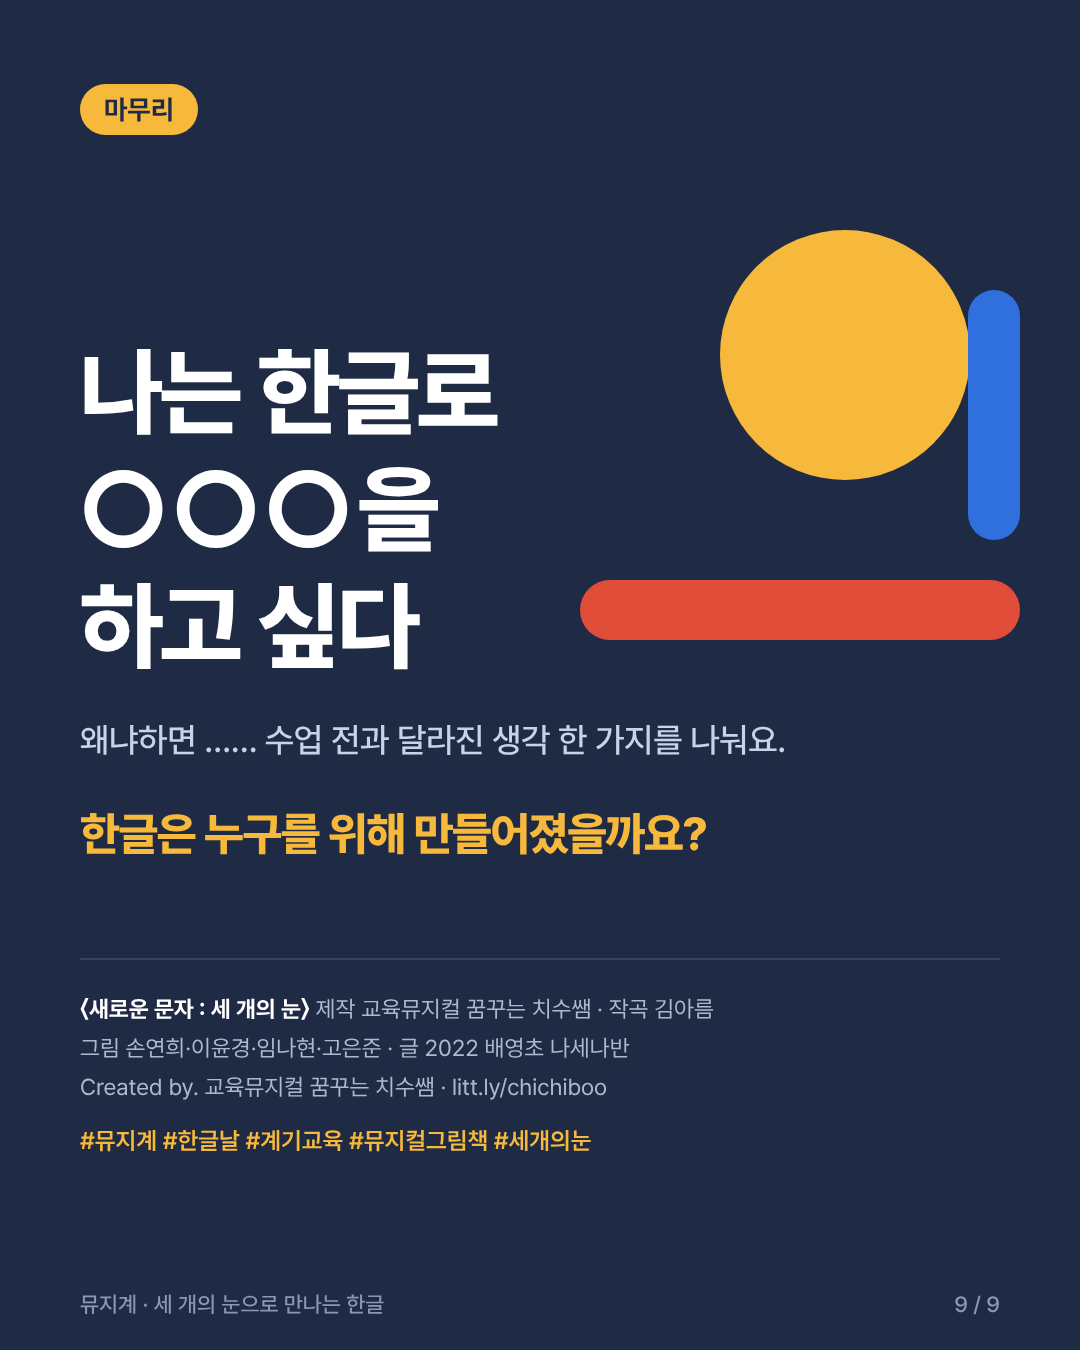
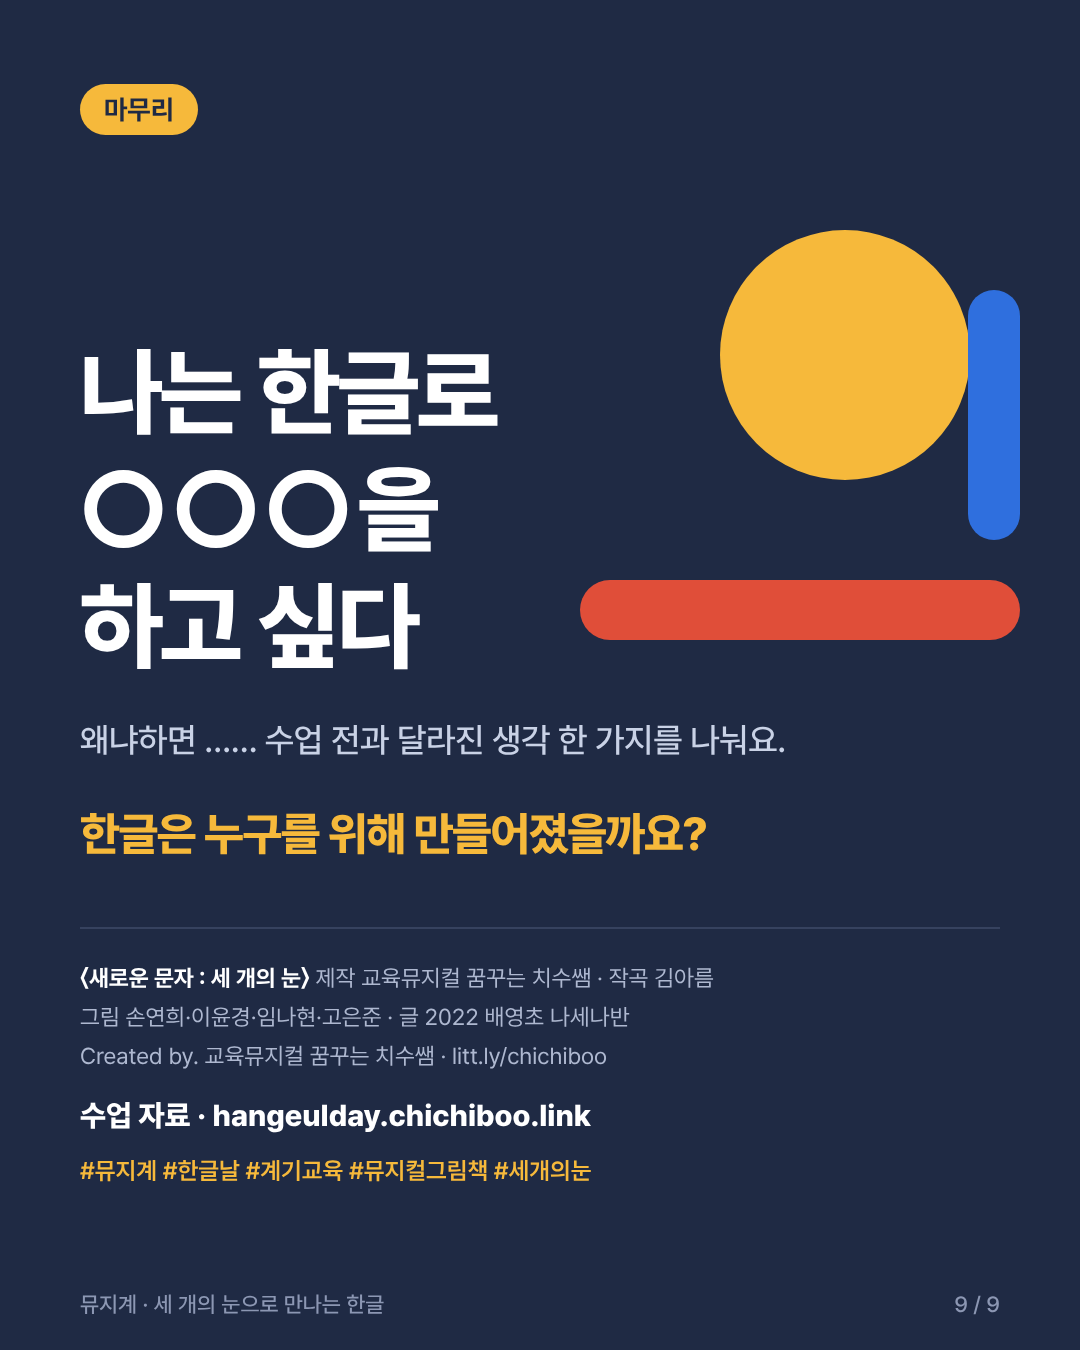
Card news: add the site URL hangeulday.chichiboo.link
Show the custom-domain URL on cards 8 and 9 and in the post caption.

Claude-Session: https://claude.ai/code/session_01Pmh6PhJww4VXSAKX9u9GHE

Changed region(s): [[0.0611, 0.7156, 0.6722, 0.8711]]

diff --git a/cardnews/index.html b/cardnews/index.html
@@ -117,7 +117,7 @@ p{margin:0}
 .stack img:nth-child(1){left:0;top:0;transform:rotate(-4deg)}.stack img:nth-child(2){left:40px;top:40px;transform:rotate(1deg)}.stack img:nth-child(3){left:80px;top:70px;transform:rotate(4deg)}
 .plan{display:flex;flex-direction:column;gap:10px;margin-top:10px}
 .web{margin-top:22px;background:var(--navy);color:#fff;border-radius:28px;padding:30px 34px}
-.web strong{display:block;font-size:32px;font-weight:800;margin-bottom:16px}
+.web strong{display:block;font-size:32px;font-weight:800;margin-bottom:16px}.web em{font-style:normal;color:var(--yellow);margin-left:10px}
 .web div{display:flex;flex-wrap:wrap;gap:12px}.web span{font-size:25px;font-weight:600;background:#2E3A58;border-radius:999px;padding:8px 20px;color:#E4E9F5}
 .plan div{display:flex;gap:12px;align-items:baseline;font-size:26px;font-weight:600}.plan span{font-size:23px;color:var(--sub);font-weight:500}
 
@@ -131,7 +131,8 @@ p{margin:0}
 .c9 .ask{margin-top:40px;font-size:46px;font-weight:800;color:var(--yellow);letter-spacing:-.03em}
 .credit{margin-top:auto;border-top:2px solid #36425F;padding-top:30px;font-size:23px;line-height:1.7;color:#AEB8D0}
 .credit strong{color:#fff;font-weight:700}
-.hash{margin-top:14px;font-size:24px;color:var(--yellow);font-weight:600}
+.site{margin-top:14px;font-size:30px;font-weight:800;color:#fff}
+.hash{margin-top:10px;font-size:24px;color:var(--yellow);font-weight:600}
 @media print{body{background:none;padding:0;gap:0}.card{page-break-after:always}}
 </style></head>
 <body>
@@ -244,7 +245,7 @@ p{margin:0}
 <div class="box mat"><span class="ic" style="background:var(--red-soft);color:var(--red)">활동지 A4</span><h2>활동지 3장</h2><p>1 세 개의 눈<br>2 기록일까, 상상일까?<br>3 세종대왕께 보내는 편지</p></div>
 <div class="box mat"><span class="ic" style="background:var(--green-soft);color:var(--green)">수업 흐름</span><h2>골라 쓰는 차시</h2><div class="plan"><div>2차시<span>80분 · 전체 감상</span></div><div>1차시<span>40분 · 장면 골라 보기</span></div></div></div>
 </div>
-<div class="web"><strong>수업 웹페이지 하나로</strong><div><span>▶ 영상 장면 골라 보기</span><span>PPT 바로 보기</span><span>활동지 바로 인쇄</span></div></div>
+<div class="web"><strong>수업 웹페이지 <em>hangeulday.chichiboo.link</em></strong><div><span>▶ 영상 장면 골라 보기</span><span>PPT 바로 보기</span><span>활동지 바로 인쇄</span></div></div>
 <div class="foot"><span>뮤지계 · 세 개의 눈으로 만나는 한글</span><span>8 / 9</span></div>
 </section>
 
@@ -256,6 +257,7 @@ p{margin:0}
 <p class="lead">왜냐하면 …… 수업 전과 달라진 생각 한 가지를 나눠요.</p>
 <p class="ask">한글은 누구를 위해 만들어졌을까요?</p>
 <div class="credit"><strong>〈새로운 문자 : 세 개의 눈〉</strong> 제작 교육뮤지컬 꿈꾸는 치수쌤 · 작곡 김아름<br>그림 손연희·이윤경·임나현·고은준 · 글 2022 배영초 나세나반<br>Created by. 교육뮤지컬 꿈꾸는 치수쌤 · litt.ly/chichiboo
+<p class="site">수업 자료 · hangeulday.chichiboo.link</p>
 <p class="hash">#뮤지계 #한글날 #계기교육 #뮤지컬그림책 #세개의눈</p></div>
 <div class="foot"><span>뮤지계 · 세 개의 눈으로 만나는 한글</span><span>9 / 9</span></div>
 </section>
